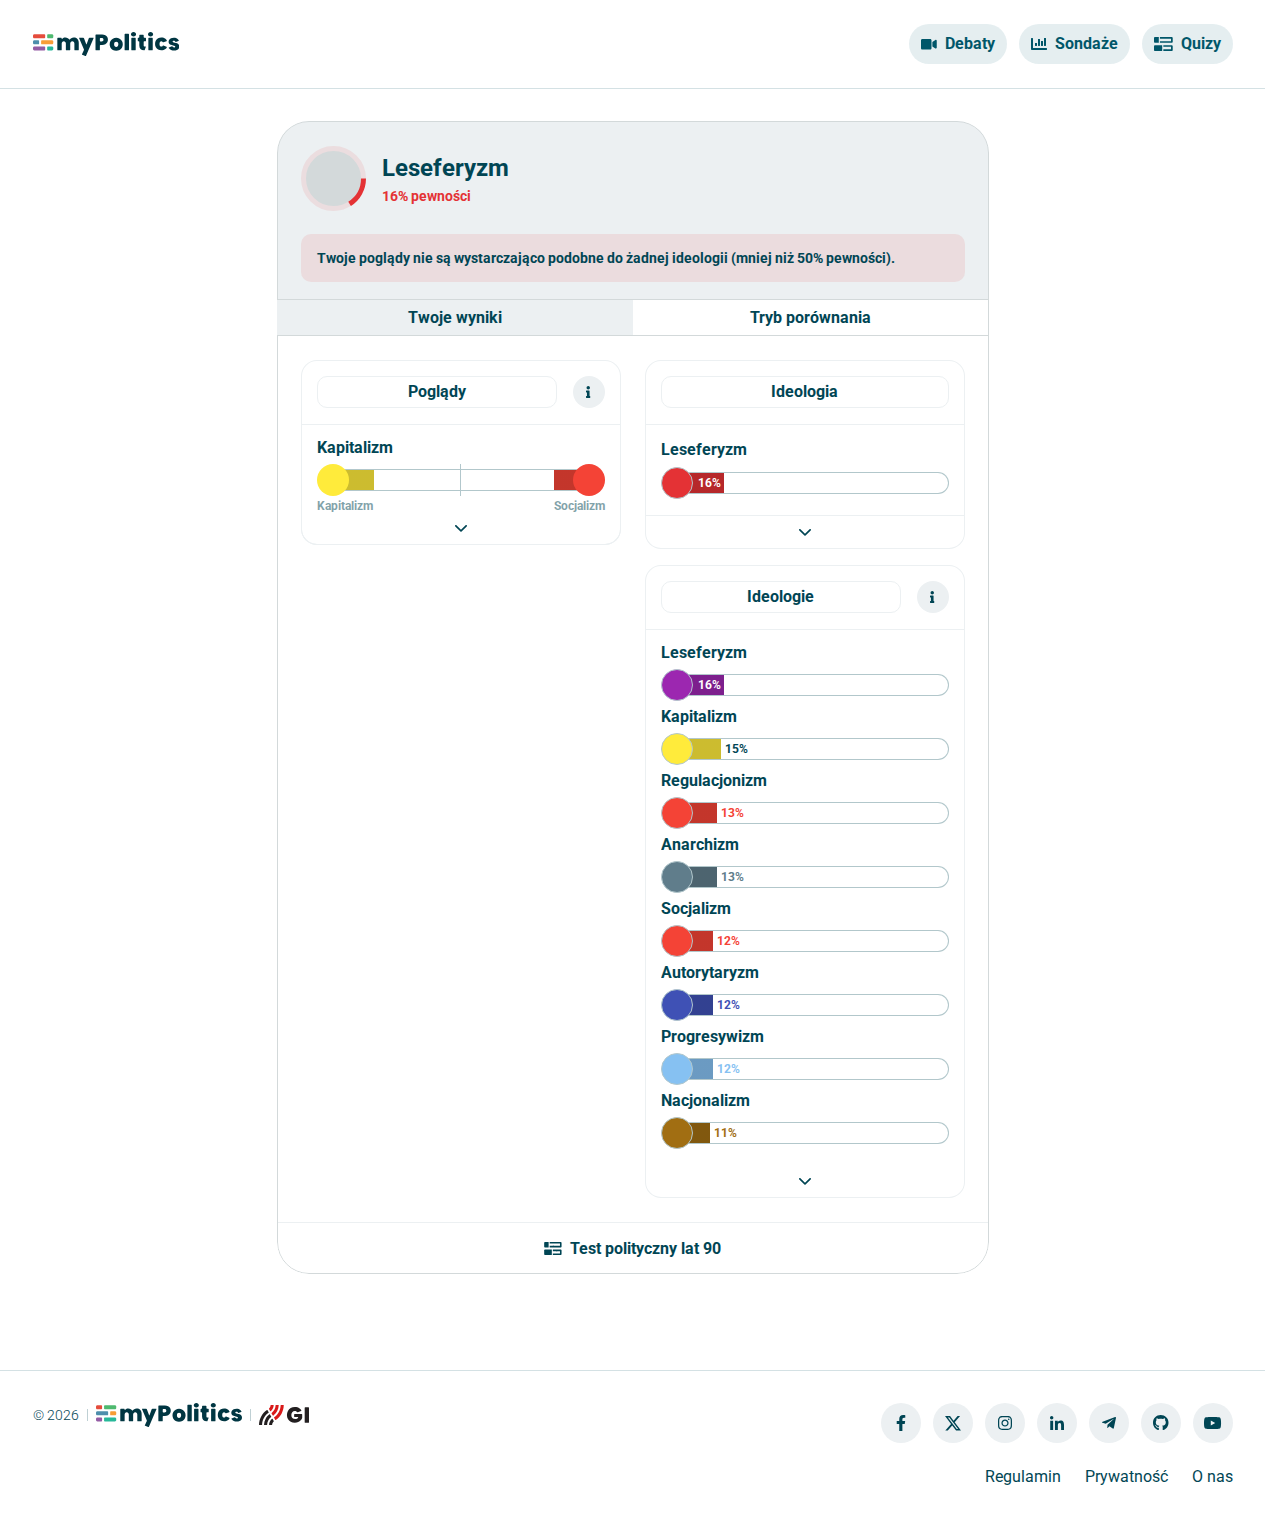
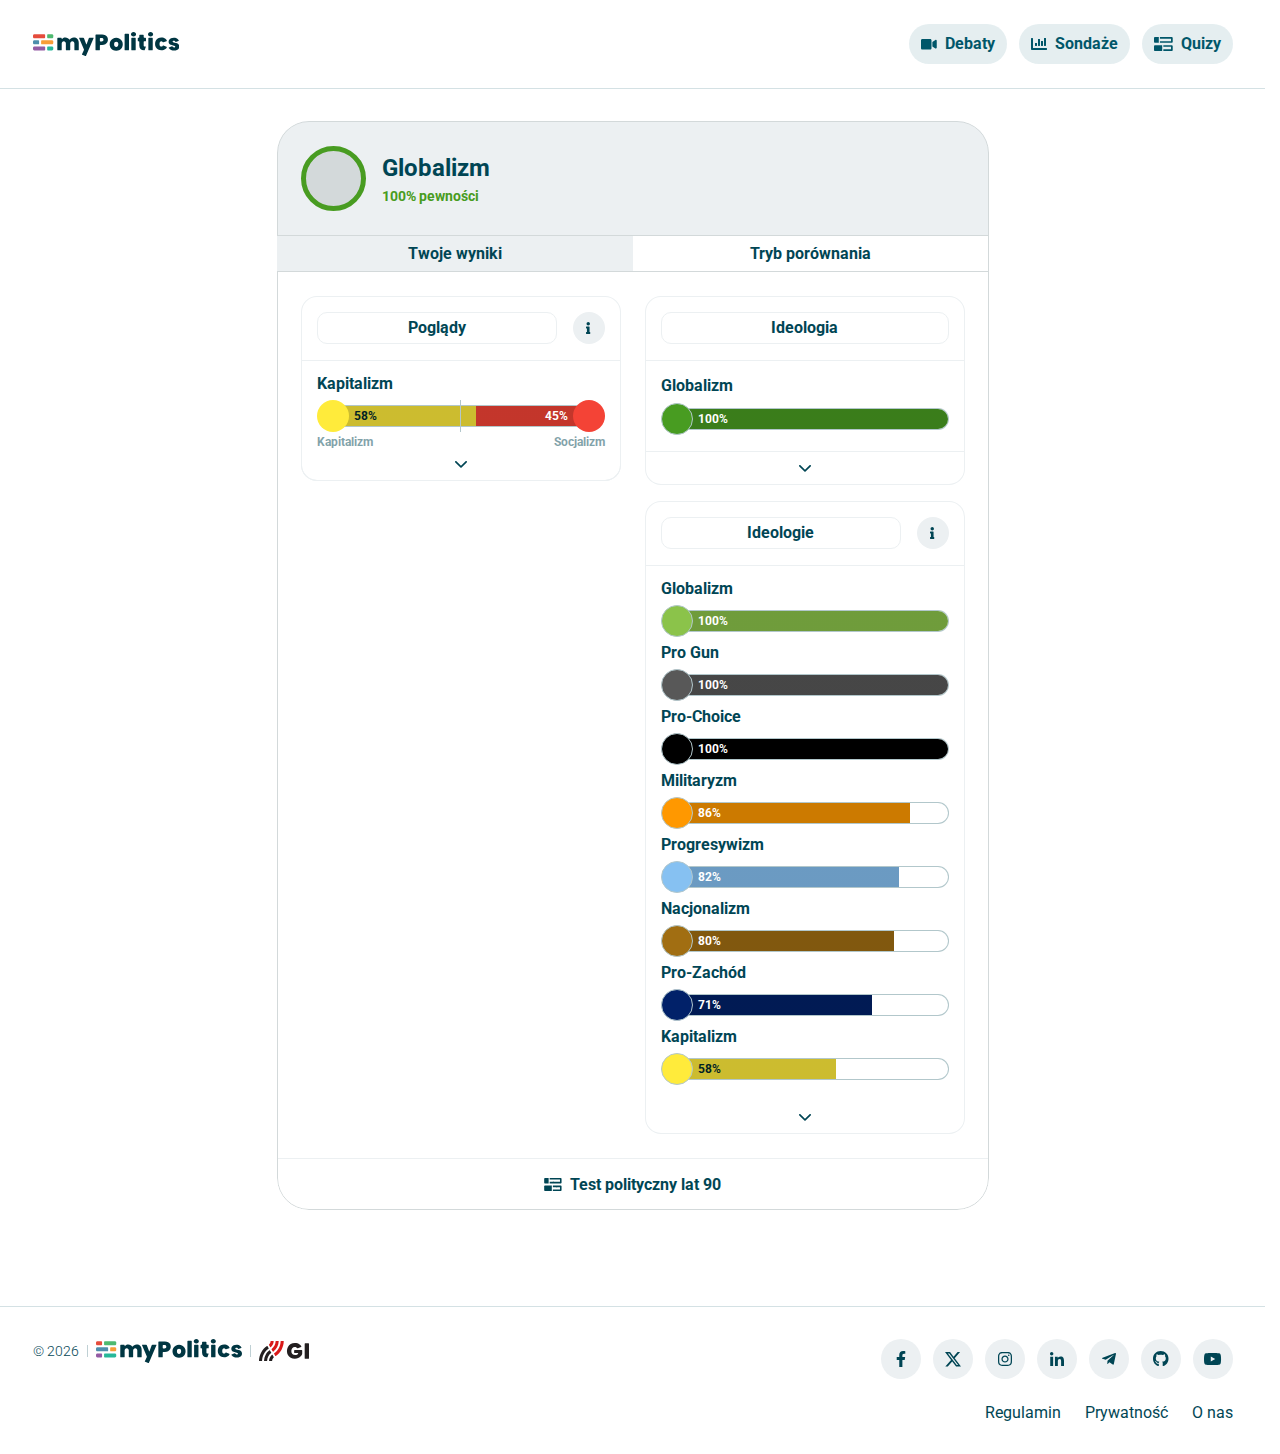
fix: correct Polish 1990s mock results

diff --git a/src/mocks/polish-nineties-mock.test.ts b/src/mocks/polish-nineties-mock.test.ts
@@ -1,0 +1,98 @@
+// @vitest-environment node
+import type { Server } from "node:http";
+import type { AddressInfo } from "node:net";
+
+import { afterAll, beforeAll, describe, expect, it } from "vitest";
+
+import {
+  createMockServer,
+  projectId,
+  surveyId,
+} from "../../server.mjs";
+
+const listen = (server: Server): Promise<string> =>
+  new Promise((resolve) => {
+    server.listen(0, "127.0.0.1", () => {
+      const { port } = server.address() as AddressInfo;
+
+      resolve(`http://127.0.0.1:${port}`);
+    });
+  });
+
+const close = (server: Server): Promise<void> =>
+  new Promise((resolve) => {
+    server.closeAllConnections();
+    server.close(() => resolve());
+  });
+
+describe("Polish 1990s local mock", () => {
+  let server: Server;
+  let baseURL: string;
+
+  beforeAll(async () => {
+    server = createMockServer();
+    baseURL = await listen(server);
+  });
+
+  afterAll(async () => {
+    await close(server);
+  });
+
+  it("allows the JSON result request through CORS preflight", async () => {
+    const response = await fetch(`${baseURL}/api/v1/result`, {
+      method: "OPTIONS",
+      headers: {
+        "access-control-request-headers": "content-type",
+        "access-control-request-method": "POST",
+        origin: "http://localhost:5173",
+      },
+    });
+
+    expect(response.status).toBe(204);
+    expect(response.headers.get("access-control-allow-headers")).toContain(
+      "content-type",
+    );
+    expect(response.headers.get("access-control-allow-methods")).toContain(
+      "POST",
+    );
+  });
+
+  it("stores an answer and returns its per-orientation maximum", async () => {
+    const survey = await fetch(`${baseURL}/api/v1/survey/${surveyId}`).then(
+      (response) => response.json(),
+    );
+    const question = survey.questions[0];
+    const answer = question.possibleAnswers[0];
+    const orientationId = answer.orientationIds[0];
+    const expectedMaximum = survey.questions.filter((entry) =>
+      entry.possibleAnswers.some((possibleAnswer) =>
+        possibleAnswer.orientationIds.includes(orientationId),
+      ),
+    ).length;
+    const sessionId = "cb8ddf8f-1c62-4ff6-bc05-1dc52c159040";
+
+    const created = await fetch(`${baseURL}/api/v1/result`, {
+      method: "POST",
+      headers: { "content-type": "application/json" },
+      body: JSON.stringify({
+        sessionId,
+        projectId,
+        answers: [{ questionId: question.id, answerId: answer.id }],
+      }),
+    });
+    const result = await fetch(`${baseURL}/api/v1/result/${sessionId}`).then(
+      (response) => response.json(),
+    );
+    const orientation = result.results.orientations.find(
+      (entry) => entry.id === orientationId,
+    );
+
+    expect(created.status).toBe(201);
+    expect(orientation).toMatchObject({
+      id: orientationId,
+      points: 1,
+      maxPossible: expectedMaximum,
+    });
+    expect(orientation.maxPossible).not.toBe(75);
+  });
+});

diff --git a/src/constants/survey.ts b/src/constants/survey.ts
@@ -14,8 +14,14 @@ import { getResultLinkUrl } from "@/utils/survey/email-capture/getResultLinkUrl"
 // The slugs are predefined here until the API has them. The survey to read
 // is the one the project names as its latest (`getLatestSurvey`), so a new
 // version of a quiz needs no change here.
+const POLISH_NINETIES_PROJECT_ID =
+  import.meta.env.VITE_POLISH_NINETIES_PROJECT_ID;
+
 export const QUIZ_PROJECT_IDS: Record<string, string> = {
   mypolitics: "5ab50822-e95e-4c7c-a1d6-14aceb68f108",
+  ...(POLISH_NINETIES_PROJECT_ID
+    ? { "polskie-lata-90": POLISH_NINETIES_PROJECT_ID }
+    : {}),
   prezydencki2025: "69ef6c38-7292-4096-a9ef-a58e682dbfde",
 };
 

diff --git a/docs/migrations/polskie-lata-90.md b/docs/migrations/polskie-lata-90.md
@@ -6,16 +6,19 @@ verification.
 
 ## Start
 
-1. Add the temporary local mapping below to `src/constants/survey.ts`. Do not
-   commit it: the mock project ID does not exist in production.
+1. In one terminal, run `node server.mjs 4010`.
+2. In another, run:
 
-   ```ts
-   "polskie-lata-90": "polskie-lata-90-mock-project",
+   ```sh
+   VITE_API_URL=http://localhost:4010/api \
+   VITE_POLISH_NINETIES_PROJECT_ID=polskie-lata-90-mock-project \
+   yarn dev
    ```
 
-2. In one terminal, run `node server.mjs 4010`.
-3. In another, run `VITE_API_URL=http://localhost:4010/api yarn dev`.
-4. Open `/quizzes/polskie-lata-90`, answer the questions, and inspect the
+   The project ID is an environment-only override, so it cannot be
+   accidentally committed as a production mapping.
+
+3. Open `/quizzes/polskie-lata-90`, answer the questions, and inspect the
    resulting `/results/<uuid>` page.
 
 The mock reads `quiz-data-1MRfrZ26Fl.json` and
